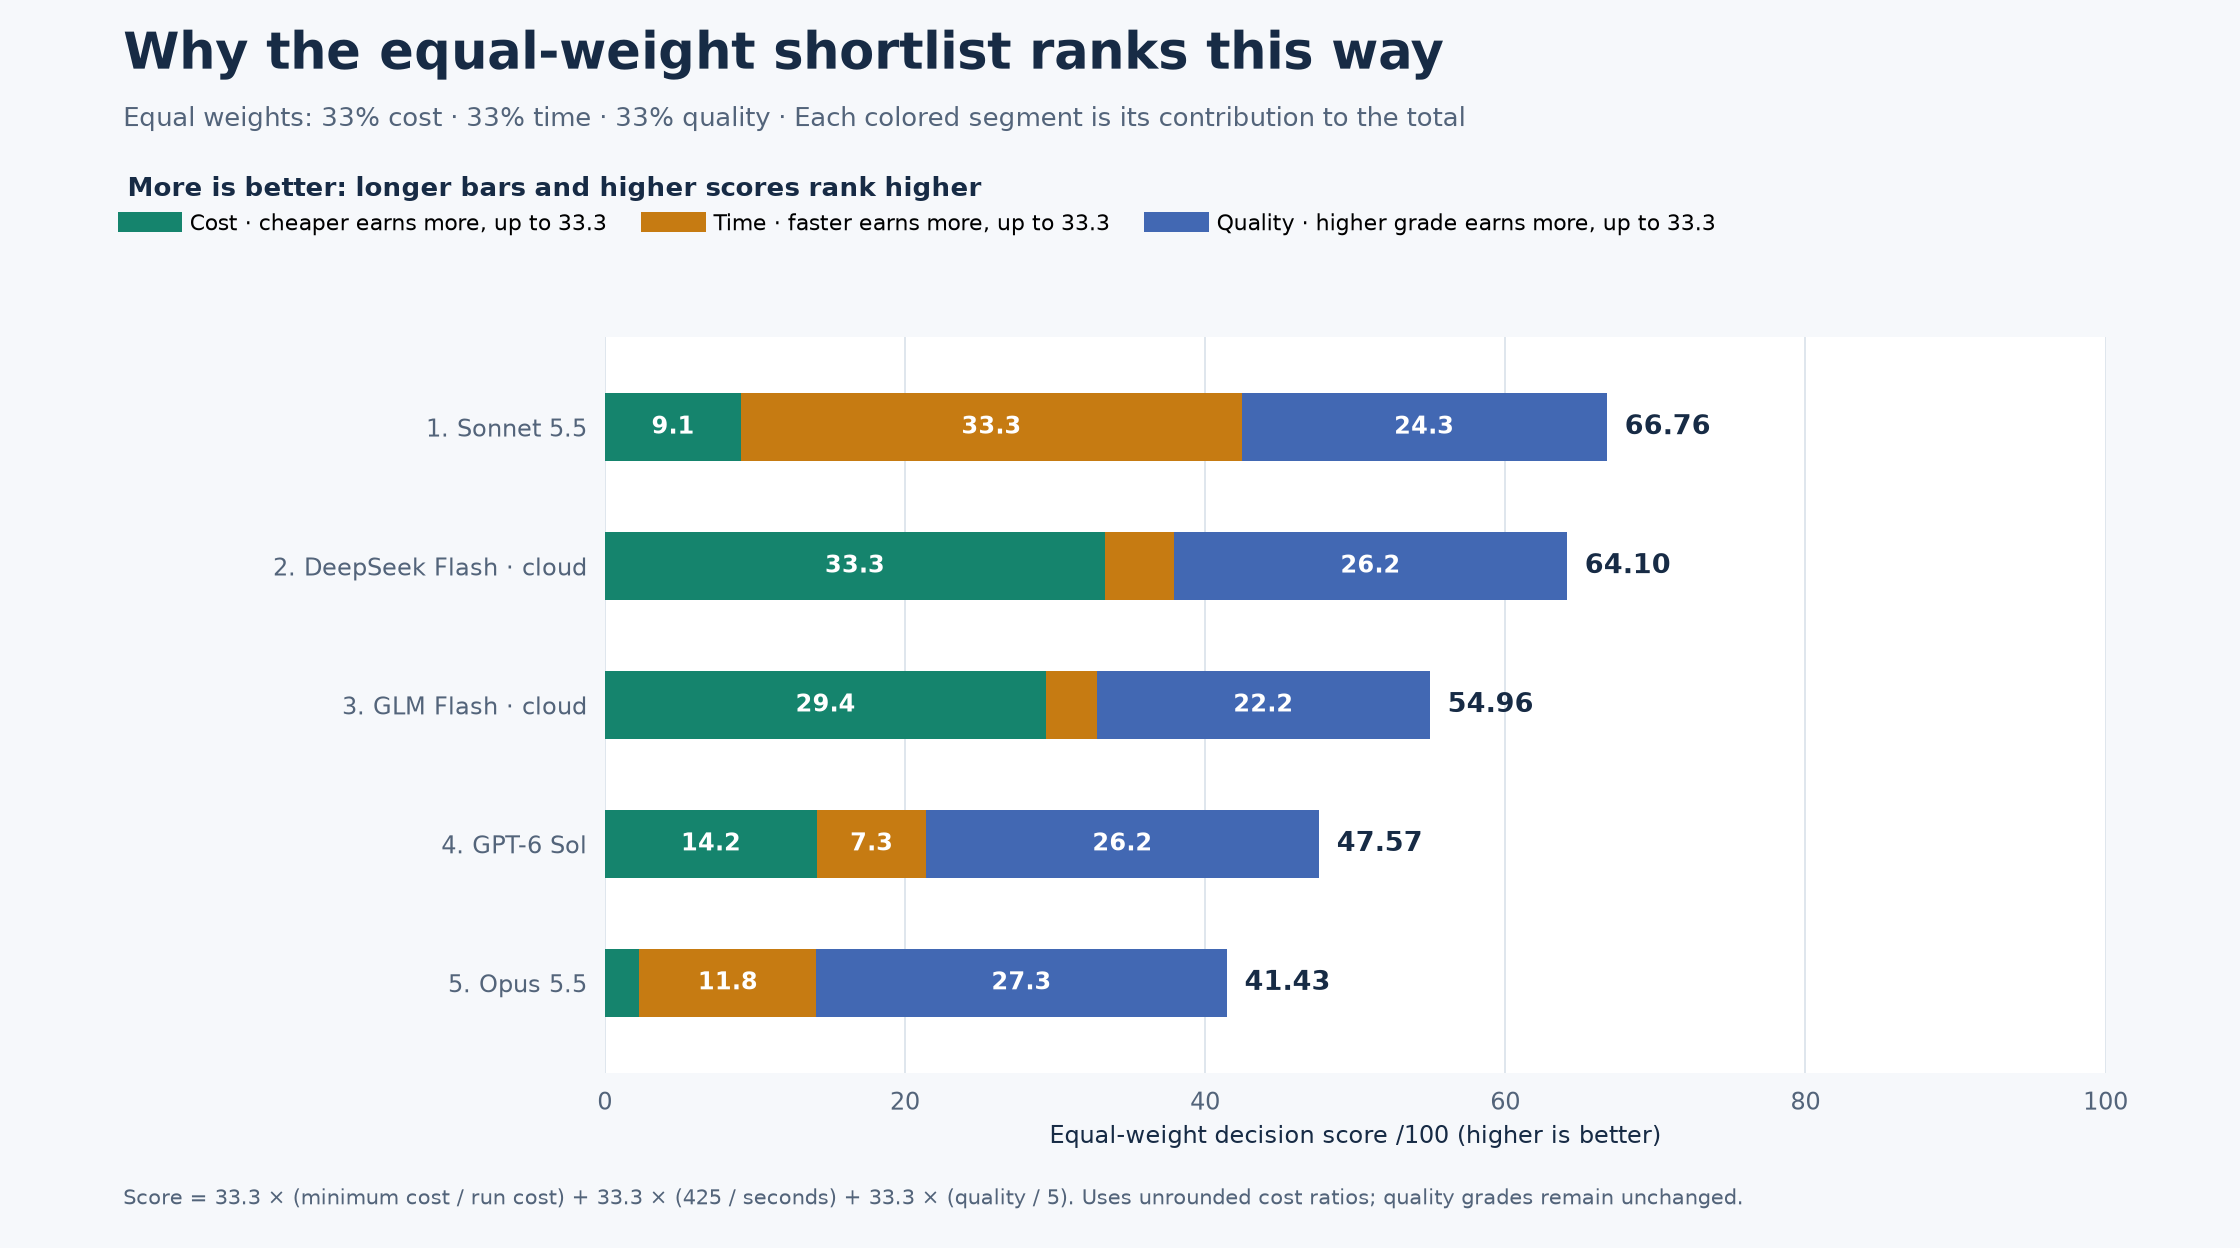
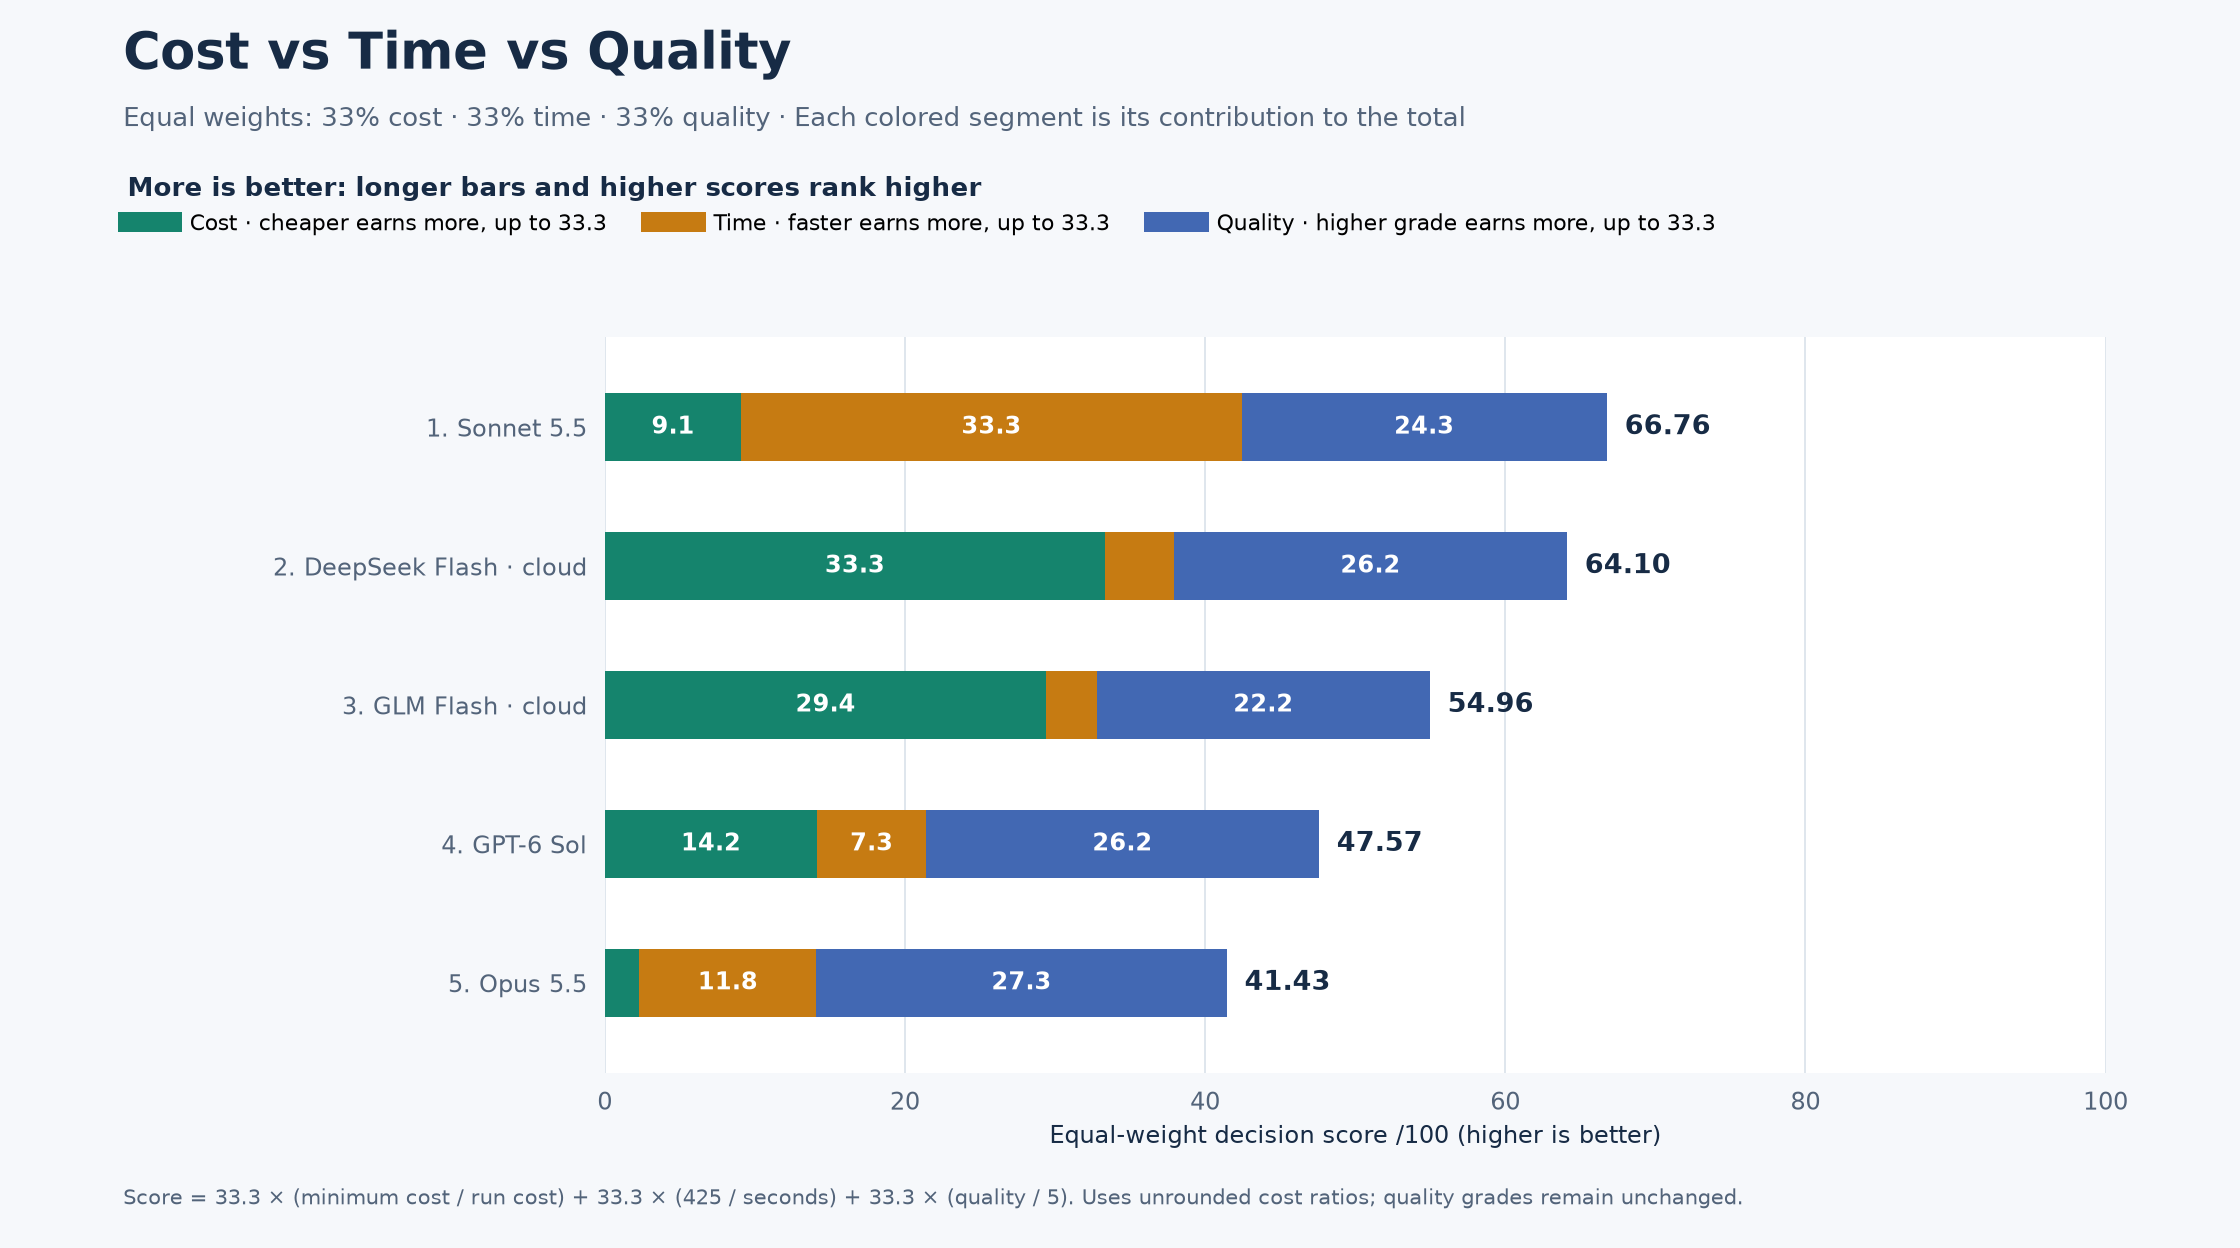
Retitle the equal-weight chart 'Cost vs Time vs Quality'

Changed region(s): [[0.0625, 0.0, 0.6562, 0.0625]]

diff --git a/scripts/generate_charts.py b/scripts/generate_charts.py
@@ -252,7 +252,7 @@ def chart_weighted(data):
     fig, axis = plt.subplots(figsize=(14, 7.8))
     fig.patch.set_facecolor(BACKGROUND)
     fig.subplots_adjust(left=0.27, right=0.94, bottom=0.14, top=0.73)
-    heading(fig, "Why the equal-weight shortlist ranks this way", "Equal weights: 33% cost · 33% time · 33% quality · Each colored segment is its contribution to the total")
+    heading(fig, "Cost vs Time vs Quality", "Equal weights: 33% cost · 33% time · 33% quality · Each colored segment is its contribution to the total")
     style_axis(axis)
     for index, row in enumerate(rows):
         y = len(rows) - index - 1
